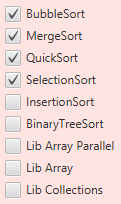
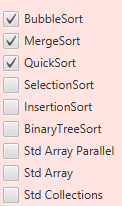
updated readme

diff --git a/src/main/Test/Java/com/sparta/newviewandcontroller/TestGUI.java b/src/main/Test/Java/com/sparta/newviewandcontroller/TestGUI.java
@@ -8,5 +8,5 @@ public class TestGUI {
 //-------------------------------------------------------------
 //there are issues when creating the first barchart that the names of the columns get all bunched up under the y-axis - fixed
 // barchart doesn't resize correctly, especially when binary tree is involved. - fixed
-// there are issues with the printed out array when it comes to binary tree, its not printing the sorted array, i know the sorting works due to my testing wil have to look more into this
+// there are issues with the printed out array when it comes to binary tree, its not printing the sorted array, i know the sorting works due to my testing wil have to look more into this - fixed
 // there is a timing issue i think, the times for the standard library sorts shoot way up when they are done at the same time as the other sorts. - more testing needs to be done on this.

diff --git a/src/main/java/com/sparta/newviewandcontroller/GUI.java b/src/main/java/com/sparta/newviewandcontroller/GUI.java
@@ -53,9 +53,9 @@ public class GUI extends Application{
         CheckBox binaryCheckBox = new CheckBox("BinaryTreeSort");
         CheckBox insertionCheckBox = new CheckBox("InsertionSort");
         CheckBox selectionCheckBox = new CheckBox("SelectionSort");
-        CheckBox standardArraySortCheckBox = new CheckBox("Lib Array");
-        CheckBox standardCollectionsSortCheckBox = new CheckBox("Lib Collections");
-        CheckBox standardArrayParallelSortCheckBox = new CheckBox("Lib Array Parallel");
+        CheckBox standardArraySortCheckBox = new CheckBox("Std Array");
+        CheckBox standardCollectionsSortCheckBox = new CheckBox("Std Collections");
+        CheckBox standardArrayParallelSortCheckBox = new CheckBox("Std Array Parallel");
 
         Text textBub = new Text();
         Text textMerge = new Text();

diff --git a/README.md b/README.md
@@ -3,19 +3,25 @@
 The Sort Manager Project, is a small application used to generate an array of random numbers and them sort them into numerical order.
 ## Table of Contents
 1. [Introduction](#intro)
+2. [Instructions](#instructions)
 2. [Features](#features)
 3. [Project Motivation](#project)
 4. [Testing](#testing)
 5. [License](#license)
 
 ## Introduction <a name="intro"><a/>
-This is a very easy and intuitive to use
-## Features <a name="features"><a/>
-My Project contains a large number of special features that allow it to stand out from the crowd.
-#### GUI
-Namely an intuitive GUI that makes it far easier to use, as everything is spelled out for the user. ![GUI](gui.png)
+This is a very easy and intuitive to use random number array sorter, it allows for easy repeats of tests, at the push of a couple of buttons. to repeat the exact same experiment, its as simple as pressing the Sort button again. This can be done as many times as you wish. The arrays are printed both onto the GUI itself as well as into the console (for easier reading of longer arrays) should you wish to check them. The times of all of the sort types are listed next to the bar chart so you can see their exact values.
+## Instructions<a name="instructions"><a/>
+1. Choose which sort types you would like to use by selecting their respective check boxes.
+2. Select the length of random array you would like to generate.
+3. Click the "Start Sort" button.
 
-However for those who prefer that school feel, we still have the option to swap to an older console style version of the system, however this does have a reduced number of features.
+## Features <a name="features"><a/>
+
+#### GUI
+Among the features unique to my sorter the first is an intuitive GUI that makes it far easier to use, as everything is spelled out for the user. ![GUI](gui.png)
+
+However for those who prefer that school feel, we still have the option to swap to an older console style version of the system, however this does have a reduced number of features. It does not have access to the inbuilt java library sort types
 #### Check Boxes
 No longer do they have to contend with clunky typed inputs instead I have implemented a simple Check Box system that allows multiple sorts to be run simultaneously for comparison.
 
@@ -63,9 +69,8 @@ public void givenTwoNumbersInAnArrayReturnSwappedNumbersInAnArray(){
 ## Future Project Direction <a name="future"><a/>
 I Would like to continue working on this project so that all of the features I have in mind can be implemented however time may not allow this. therefore here are a few of the things I would like to see this do in the future.
 - Average time Bar Chart that takes into account all of the previous test cases, the old data can be read in from a file and then after more testing is done this can be overwritten based on the new information.
+- Output results to CSV file.
 
-## Help on readmes
-[Click Me!](https://www.freecodecamp.org/news/how-to-write-a-good-readme-file/)
 
 ## License <a name="license"><a/>
 [MIT](https://choosealicense.com/licenses/mit/)
